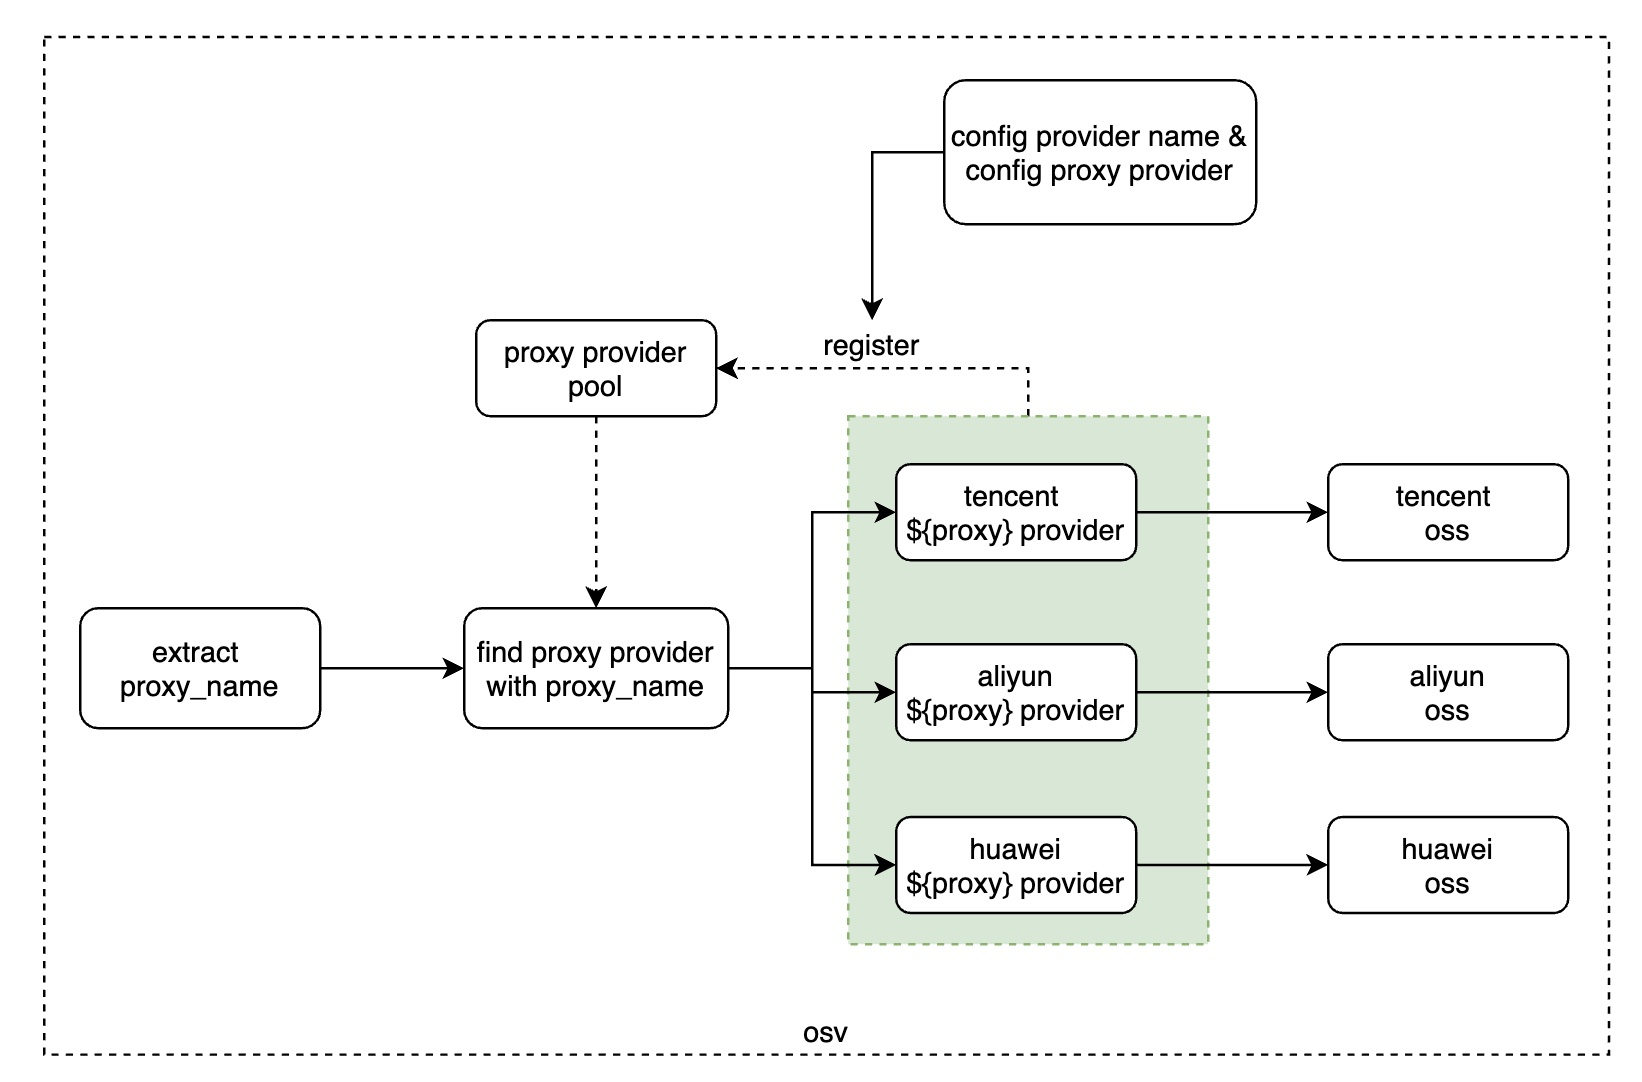
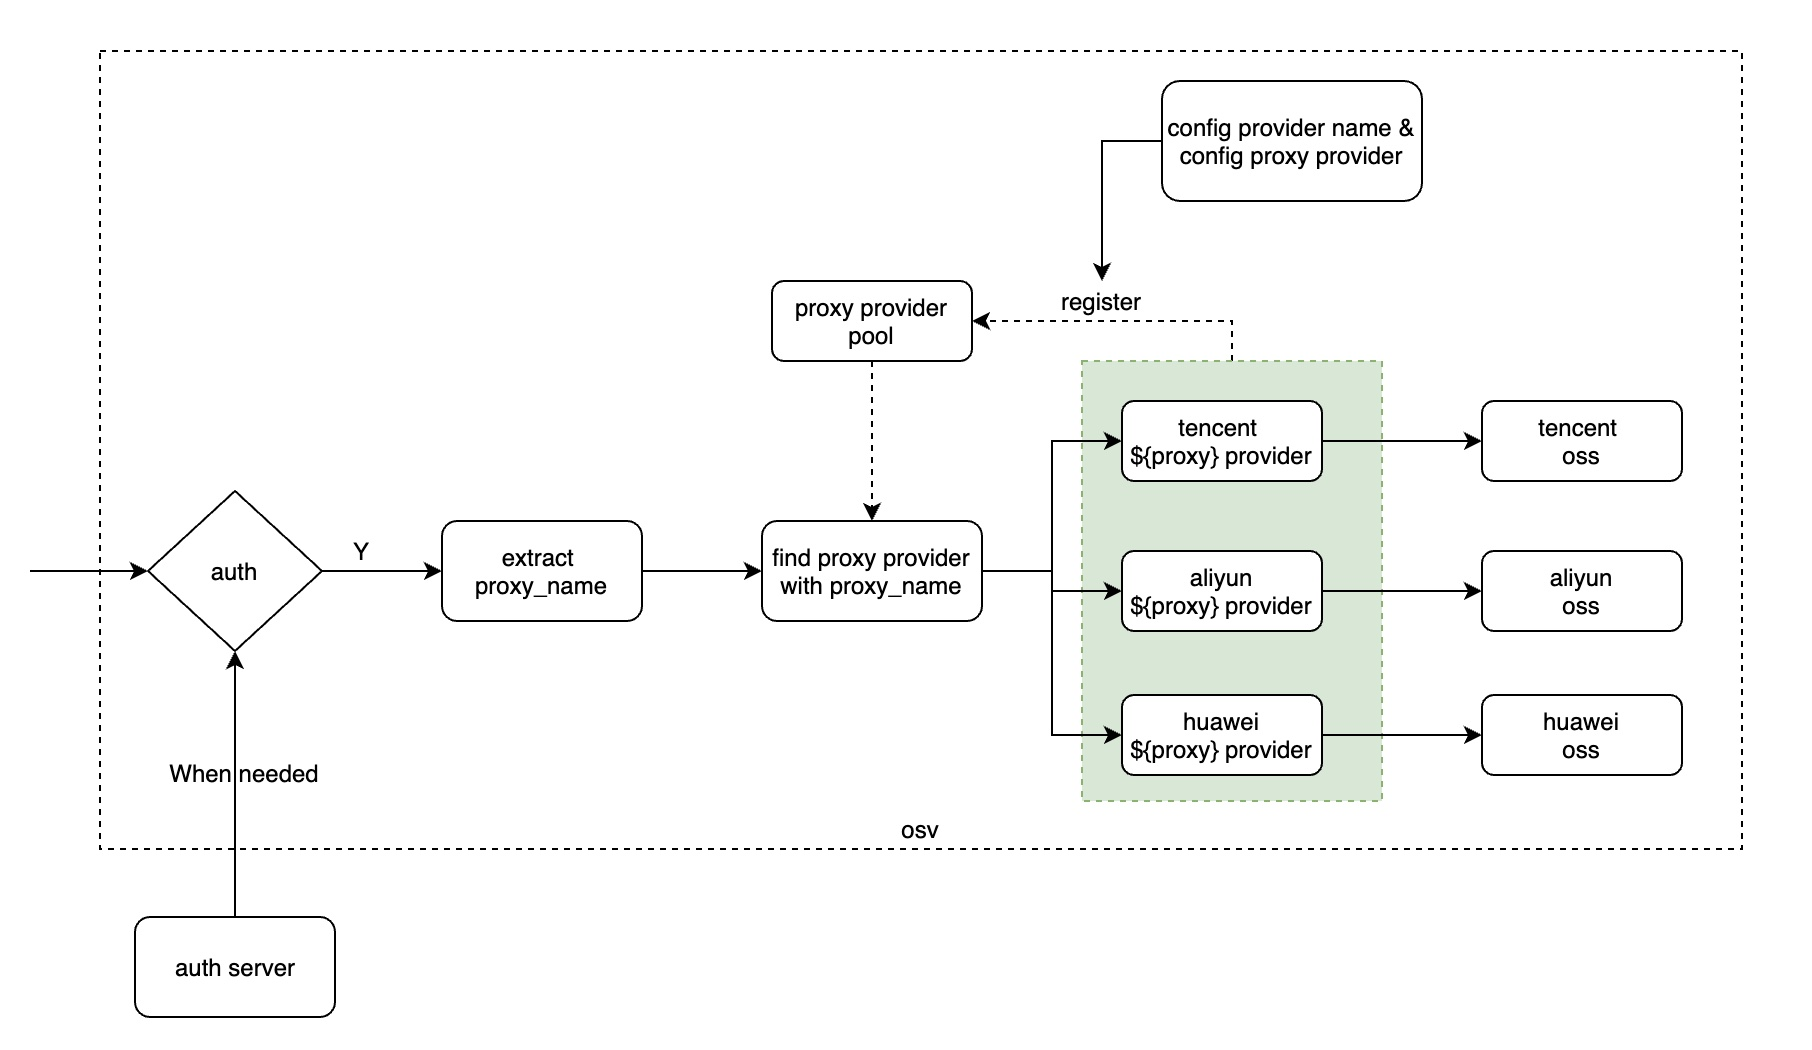
完善逻辑视图的处理

diff --git a/README.md b/README.md
@@ -2,13 +2,17 @@
 
 阿里云oss和腾讯云oss的反向代理
 
+## 目的：
+
+1. 简化oss访问的处理
+
 ## design
 
 ![image-20210310130540188](docs/assets/README/browser.png)
 
 
 
-![image-20210310130601585](docs/assets/README/logic-view.png)
+![image-20210310130601585](docs/assets/README/logic-view.jpg)
 
 
 
